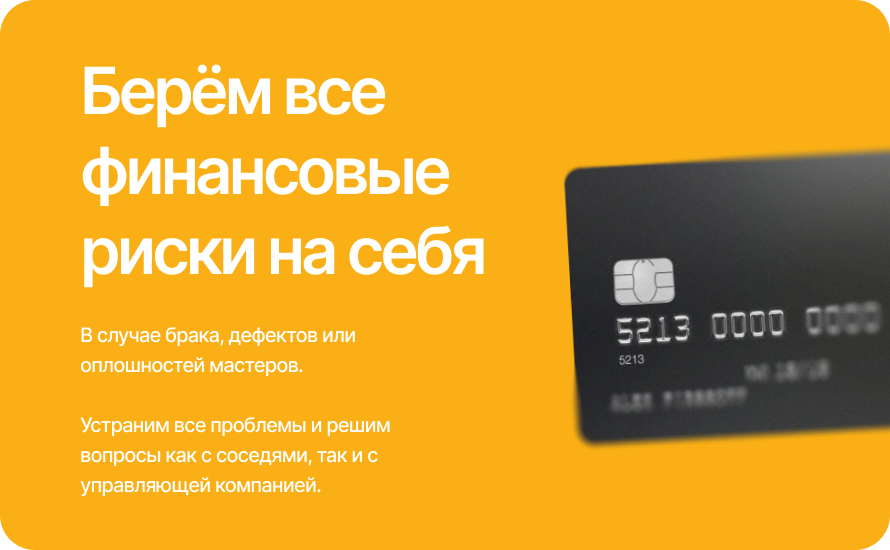
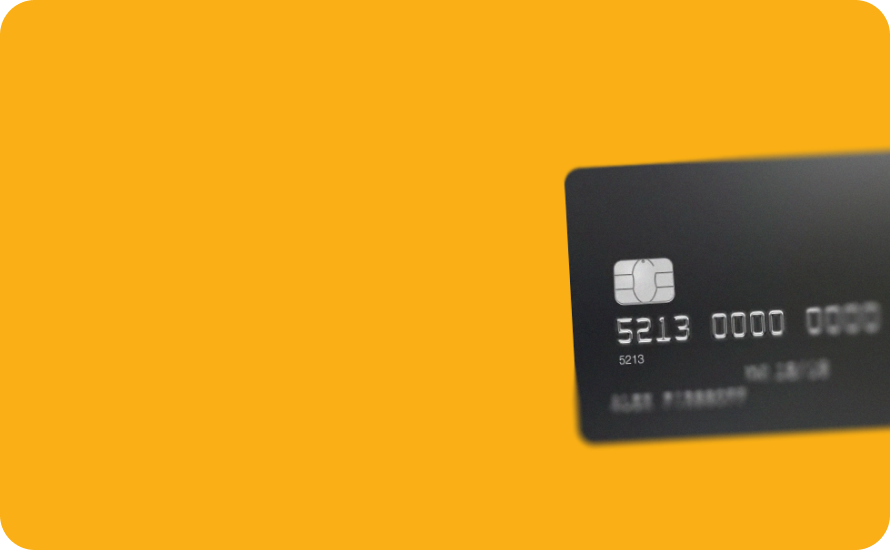
refactor: RiskSlide

diff --git a/src/components/widgets/Risk Side/RiskSlide.tsx b/src/components/widgets/Risk Side/RiskSlide.tsx
@@ -1,26 +1,89 @@
 import React from 'react'
 import Image from 'next/image'
 
+import style from './riskSlide.module.scss'
+
 import OrangeButton from '@/components/shared/buttons/Orange Button/OrangeButton'
 
-import creditCardImg from '../../../../public/assets/img/creditCardImg.png'
-import creditBullets from '../../../../public/assets/img/creditBullets.png'
+import tick from '../../../../public/assets/svg/tickBlack.svg'
 
 interface RiskSlideProps {
   button_text: string
-  background: string
+  type: boolean
 }
 
-function RiskSlide({ button_text, background }: RiskSlideProps) {
+function RiskSlide({ button_text, type }: RiskSlideProps) {
   return (
-    <section className="relative flex flex-row items-center justify-center gap-4">
-      <div className="flex w-1/2 flex-col justify-around self-stretch">
-        <Image src={creditCardImg as unknown as string} alt="credit_card" quality={100} />
-        <Image src={creditBullets as unknown as string} alt="bullets" quality={100} />
+    <section className="flex w-full flex-row items-center justify-center gap-4 overflow-hidden">
+      <div className="flex w-1/2 flex-col justify-between self-stretch">
+        <div
+          className={`flex w-full flex-col items-start gap-y-6 rounded-3xl px-14 py-10 ${style.creditBg}`}
+        >
+          <h1 className="headingStruct w-[30rem] text-6xl text-white">
+            {type
+              ? 'Берём все финансовые риски на себя'
+              : 'Берём все финансовые и репутационные риски на себя'}
+          </h1>
+          <h5 className={`${type ? 'w-80' : 'w-[32rem]'} text-lg font-normal text-white`}>
+            В случае брака, дефектов или оплоншностей мастеров.
+          </h5>
+          <h5 className={`${type ? 'w-80' : 'w-[32rem]'} text-lg font-normal text-white`}>
+            Устраним все проблемы и решим вопросы как с соседями, так и с управляющей компанией.
+          </h5>
+        </div>
+
+        <div
+          className={`gird-rows-2 grid w-full grid-cols-3 gap-y-5 px-8 text-xs font-light text-[#808080]`}
+        >
+          <div className="flex flex-row items-center gap-x-3">
+            <Image src={tick as string} alt="tick" width={20} />
+            <p className="w-[8.88rem]">Цены уже рассчитаны, а материалы подобраны и закуплены</p>
+          </div>
+          <div className="flex flex-row items-center gap-x-3">
+            <Image src={tick as string} alt="tick" width={20} />
+            <p className="w-[11rem]">Даём юридическую гарантию сроков и качества</p>
+          </div>
+          <div className="flex flex-row items-center gap-x-3">
+            <Image src={tick as string} alt="tick" width={20} />
+            <p className="w-[9.3rem]">Независимый Технадзор и тройной контроль</p>
+          </div>
+          <div className="flex flex-row items-center gap-x-3">
+            <Image src={tick as string} alt="tick" width={20} />
+            <p className="w-[9.3rem]">Все бригады работают по единому регламенту</p>
+          </div>
+          <div className="flex flex-row items-center gap-x-3">
+            <Image src={tick as string} alt="tick" width={20} />
+            <p className="w-[9.3rem]">Следите за ходом работ в режиме онлайн</p>
+          </div>
+          <div className="flex flex-row items-center gap-x-3">
+            <Image src={tick as string} alt="tick" width={20} />
+            <p className="w-[9.3rem]">От вас не потребуется никаких визитов</p>
+          </div>
+        </div>
       </div>
-      <div className="flex h-auto w-1/2">
-        <Image src={background} alt="brush_picture" className="relative" quality={100} />
-        <div className={`button_container absolute bottom-14 right-96 w-64`}>
+      <div
+        className={`flex w-1/2 flex-col justify-between gap-y-24 rounded-3xl px-16 py-10 ${type ? style.rightBg1 : style.rightBg2}`}
+      >
+        <div className="flex flex-col gap-y-5">
+          <h1 className={`headingStruct leading-tighter w-[33rem] text-6xl text-color-dark`}>
+            {type ? (
+              <>
+                Стоимость для вас <span className="orange-bold">не измениться,</span> даже при
+                взлёте цен на метриалы
+              </>
+            ) : (
+              <>Независимый и мотивированный ТехНадзор + тройной контроль </>
+            )}
+          </h1>
+          <h5
+            className={`${type ? 'w-[29rem]' : 'w-96'} text-lg font-normal tracking-tighter text-gray-400`}
+          >
+            {type
+              ? 'Мы всё предусмотрели: материалы закуплены заранее, а бригады готовы выехать на объект любой момент'
+              : 'Наши специалисты по ТехНадзору финансово мотивированы найти как можно больше недочетов'}
+          </h5>
+        </div>
+        <div className={`button_container w-64`}>
           <OrangeButton text={button_text} className="w-full py-6" link={`/calculator/step1`} />
         </div>
       </div>

diff --git a/src/app/page.tsx b/src/app/page.tsx
@@ -19,8 +19,6 @@ import rublIcon from '../../public/assets/svg/TapeSection icons/rublIcon.svg'
 import shieldIcon from '../../public/assets/svg/TapeSection icons/shiledIcon.svg'
 import lampIcon from '../../public/assets/svg/TapeSection icons/lampIcon.svg'
 import flagIcon from '../../public/assets/svg/TapeSection icons/flagIcon.svg'
-import creditCard from '../../public/assets/img/creditImg.png'
-import riskBg from '../../public/assets/img/creditCardMaterials.png'
 import plannerImg1 from '../../public/assets/img/planner img/plannerImg1.png'
 import pseudoVid from '../../public/assets/img/pseudo videos/pseudoVid.png'
 import Header from '@/components/widgets/Global Header/GlobalHeader'
@@ -88,7 +86,7 @@ export default function Home() {
 
         <CreditCard />
 
-        <RiskSlide button_text="Рассчитать стоимость" background={riskBg as unknown as string} />
+        <RiskSlide button_text="Рассчитать стоимость" type={true} />
 
         <GalleryWithFeedback />
 

diff --git a/src/components/widgets/Risk Side/riskSlide.module.css b/src/components/widgets/Risk Side/riskSlide.module.css
@@ -1,0 +1,21 @@
+.creditBg {
+  background-image: url('../../../../public/assets/img/creditCardImg.png');
+  background-size: 100% 100%;
+  background-position: center;
+}
+
+.rightBg1 {
+  background-image: url('../../../../public/assets/img/riskBackground1.png');
+  background-size: 100% 100%;
+  background-repeat: no-repeat;
+  background-position: center;
+}
+
+.rightBg2 {
+  background-image: url('../../../../public/assets/img/riskBackground2.png');
+  background-size: 100% 100%;
+  background-repeat: no-repeat;
+  background-position: center;
+}
+
+/*# sourceMappingURL=riskSlide.module.css.map */

diff --git a/src/components/widgets/Risk Side/riskSlide.module.scss b/src/components/widgets/Risk Side/riskSlide.module.scss
@@ -1,0 +1,19 @@
+.creditBg {
+  background-image: url('../../../../public/assets/img/creditCardImg.png');
+  background-size: 100% 100%;
+  background-position: center;
+}
+
+.rightBg1 {
+  background-image: url('../../../../public/assets/img/riskBackground1.png');
+  background-size: 100% 100%;
+  background-repeat: no-repeat;
+  background-position: center;
+}
+
+.rightBg2 {
+  background-image: url('../../../../public/assets/img/riskBackground2.png');
+  background-size: 100% 100%;
+  background-repeat: no-repeat;
+  background-position: center;
+}

diff --git a/src/app/pages/partnership/realtors/page.tsx b/src/app/pages/partnership/realtors/page.tsx
@@ -122,7 +122,7 @@ function Realtors() {
 
       <Predict />
 
-      <RiskSlide button_text="Стать партнером" background={riskBackground as unknown as string} />
+      <RiskSlide button_text="Стать партнером" type={false} />
 
       <Transparency />
 
